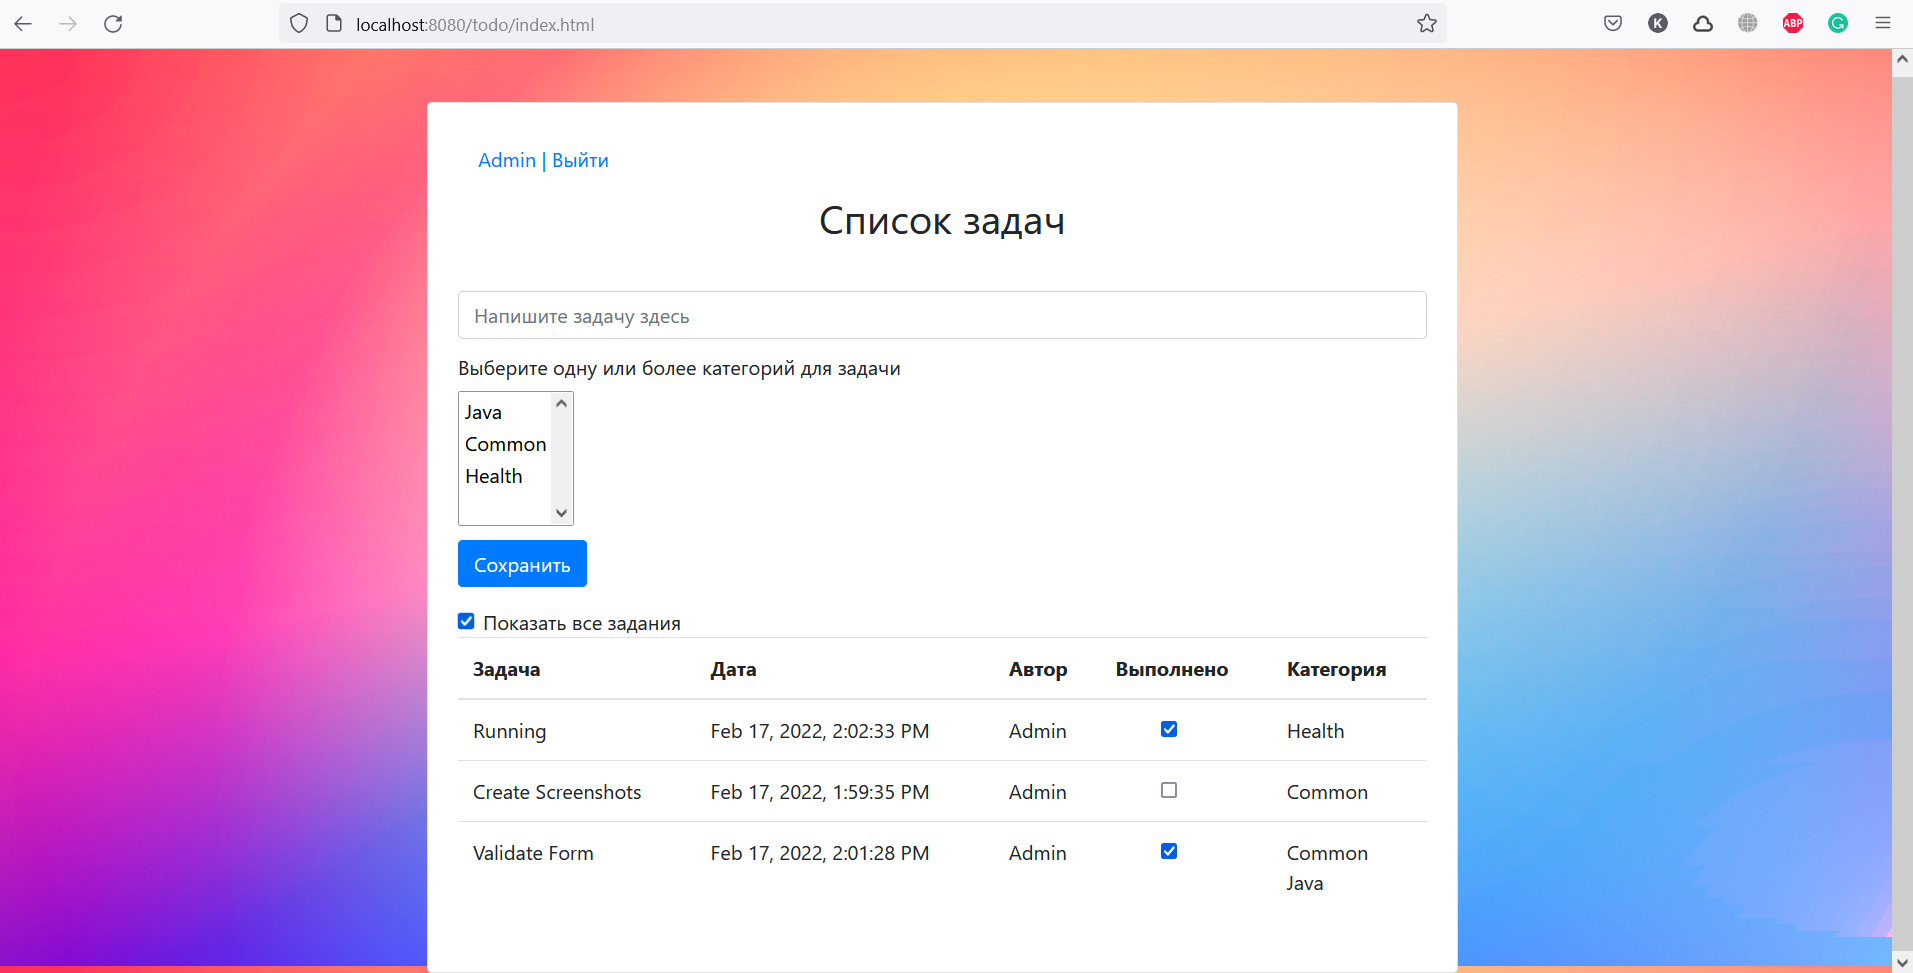
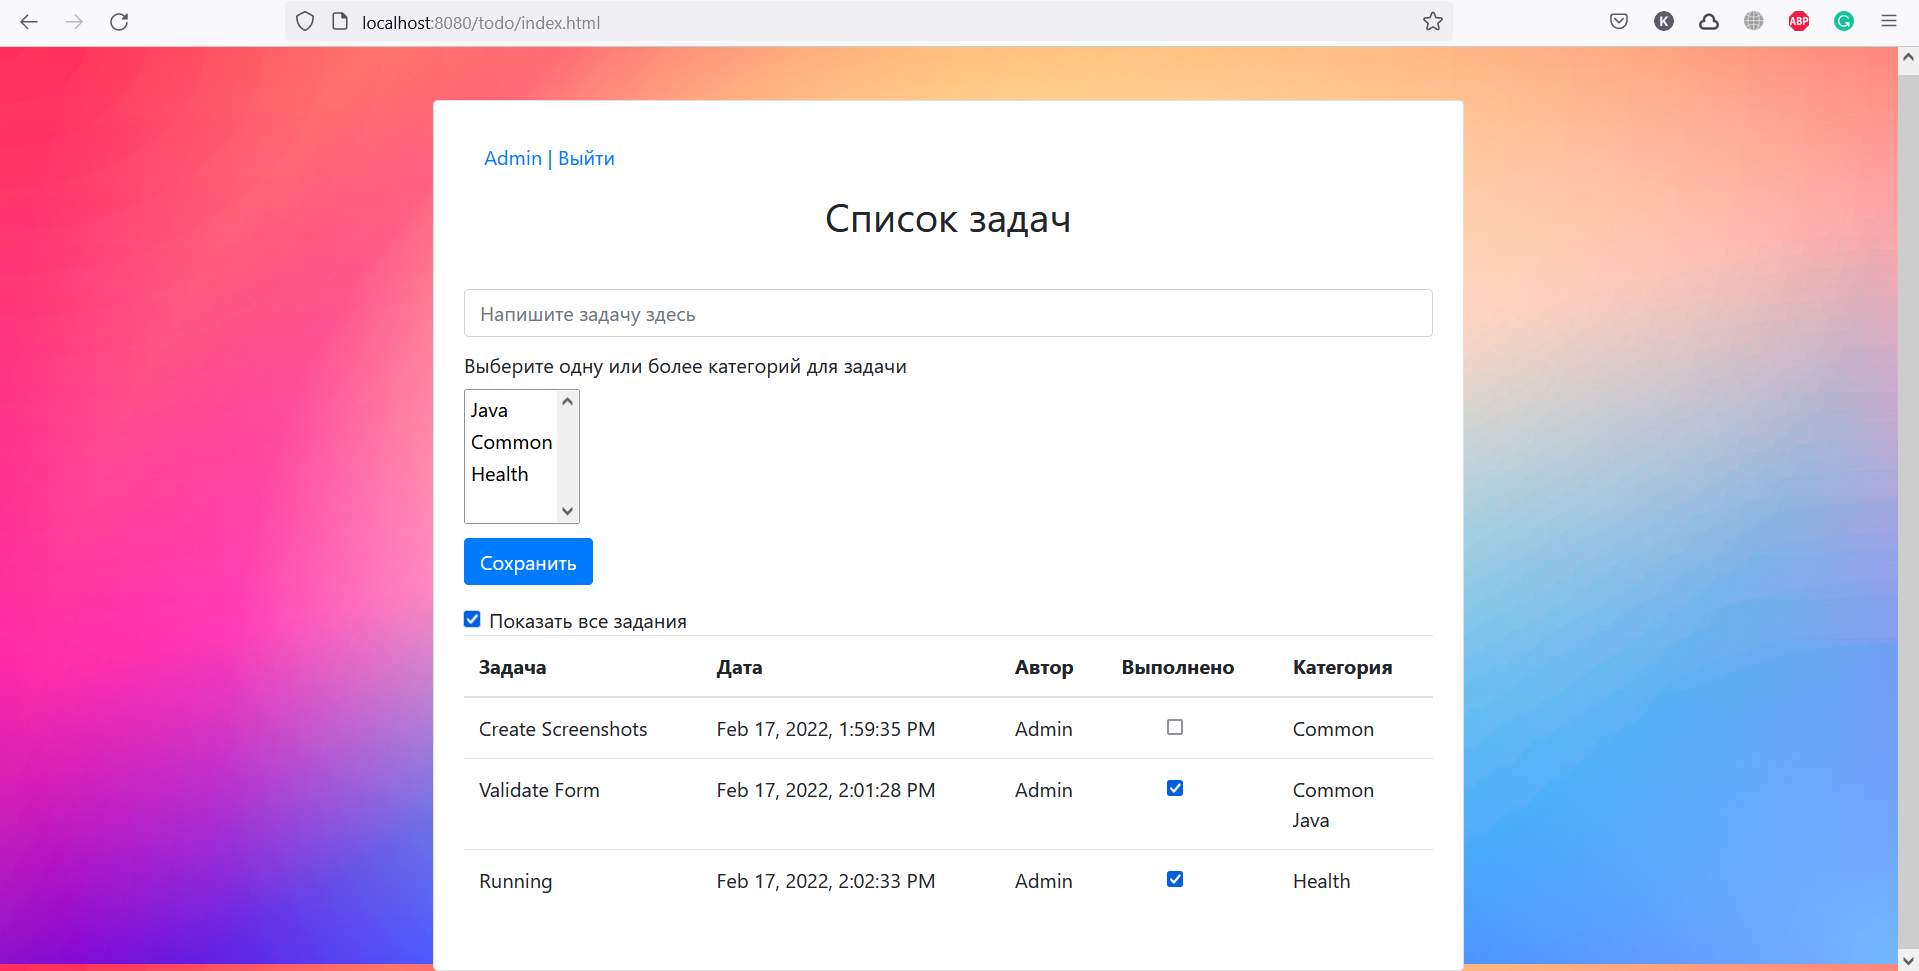
fix

diff --git a/src/main/java/ru/job4j/model/Task.java b/src/main/java/ru/job4j/model/Task.java
@@ -1,10 +1,7 @@
 package ru.job4j.model;
 
 import javax.persistence.*;
-import java.util.ArrayList;
-import java.util.Date;
-import java.util.List;
-import java.util.Objects;
+import java.util.*;
 
 @Entity
 @Table(name = "tasks")
@@ -17,7 +14,7 @@ public class Task {
     private Date created;
     private boolean done;
     @ManyToMany(cascade = {CascadeType.PERSIST, CascadeType.MERGE})
-    private List<Category> categories = new ArrayList<>();
+    private Set<Category> categories = new HashSet<>();
     @ManyToOne
     @JoinColumn(name = "user_id")
     private User user;
@@ -76,11 +73,11 @@ public class Task {
         this.user = user;
     }
 
-    public List<Category> getCategories() {
+    public Set<Category> getCategories() {
         return categories;
     }
 
-    public void setCategories(List<Category> categories) {
+    public void setCategories(Set<Category> categories) {
         this.categories = categories;
     }
 

diff --git a/src/main/java/ru/job4j/repository/HibernateStore.java b/src/main/java/ru/job4j/repository/HibernateStore.java
@@ -69,7 +69,8 @@ public class HibernateStore {
     }
 
     public List<Task> findAllTasks() {
-        return this.tx(session -> session.createQuery("select distinct t from Task t join fetch t.categories").list());
+        return this.tx(session -> session.createQuery("select distinct t from Task t join fetch t.categories"
+                + " order by t.done").list());
     }
 
     public List<Category> findAllCategories() {
